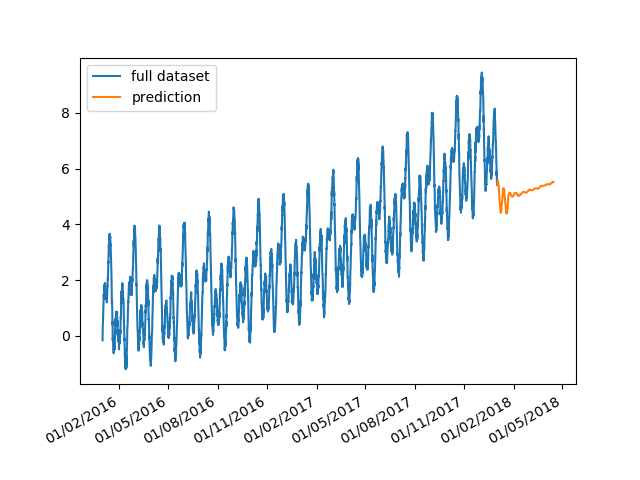
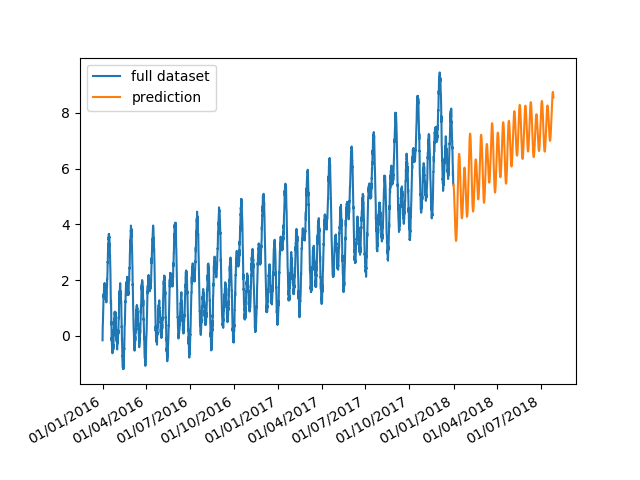
Document params & fix typo

Changed region(s): [[0.1562, 0.1562, 0.875, 0.7812], [0.0312, 0.8125, 0.5, 0.9375], [0.5, 0.8125, 0.875, 0.9375]]

diff --git a/main.py b/main.py
@@ -28,12 +28,12 @@ def main(args):
     # Preprocess input and reshapes to 
     # (num_samples, window_size, 1)
     processor = DataProcessor(window_size=args.window_size, 
-                            forcast_size=args.forcast,
+                            forecast_size=args.forecast,
                             shift=args.shift)
     train_X, train_y, test_X, test_y, raw_series = processor.preprocess(df)
 
     # train or load model
-    lstm = LSTMModel(args.window_size, args.forcast)
+    lstm = LSTMModel(args.window_size, args.forecast)
     print(lstm.model.summary())
     if not args.eval_only:
         lstm.fit(train_X, train_y, epochs=args.epochs)
@@ -44,11 +44,11 @@ def main(args):
     # evaluation and plots
     preds = lstm.predict(test_X[-1].reshape(1,-1, 1))
     preds = processor.postprocess(preds)
-    plot_test_datapoint(test_X[-1], test_y[-1], preds[0], args.forcast)
+    plot_test_datapoint(test_X[-1], test_y[-1], preds[0], args.forecast)
 
     preds_moving = moving_test_window_preds(lstm, test_X[0,:], 
                                             n_future_preds=1000,
-                                            step=args.forcast)
+                                            step=args.forecast)
     preds_moving = np.array(preds_moving).reshape(-1,1)
     preds_moving = processor.postprocess(preds_moving)
 
@@ -60,13 +60,13 @@ if __name__ == "__main__":
                         help='Path to csv dataset to use')
     parser.add_argument('-m','--model-path', type=str, default='./model.h5',
                         help='Path for saving/loading trained model')
-    parser.add_argument('-w','--window-size', type=int, default=50,
+    parser.add_argument('-w','--window-size', type=int, default=600,
                         help='Length of input sequence to predict next datapoint')
-    parser.add_argument('-f','--forcast', type=int, default=5,
+    parser.add_argument('-f','--forecast', type=int, default=200,
                         help='Length of predicted sequence')
     parser.add_argument('--shift', type=int, default=1,
                         help='By how many steps a training/test sequence is shifted to its previous')
-    parser.add_argument('--epochs', type=int, default=10,
+    parser.add_argument('--epochs', type=int, default=20,
                         help='Number of epochs for training')
     parser.add_argument('--eval-only', action='store_true',
                         help='If set model will be loaded from path instead of trained')

diff --git a/data_processor.py b/data_processor.py
@@ -3,9 +3,9 @@ import pandas as pd
 from sklearn.preprocessing import MinMaxScaler
 
 class DataProcessor:
-    def __init__(self, window_size, forcast_size=1, shift=1,split_ratio=0.8):
+    def __init__(self, window_size, forecast_size=1, shift=1,split_ratio=0.8):
         self.window_size = window_size
-        self.forcast_size = forcast_size
+        self.forecast_size = forecast_size
         self.shift = shift
         self.split_ratio = split_ratio
         self.scaler = MinMaxScaler(feature_range=(-1,1))
@@ -24,7 +24,7 @@ class DataProcessor:
 
         # create windows
         series_s = series.copy()
-        for i in range(self.window_size + self.forcast_size - 1):
+        for i in range(self.window_size + self.forecast_size - 1):
             series = pd.concat([series, series_s.shift(-(i+self.shift))], axis=1)
         series.dropna(axis=0, inplace=True)
 
@@ -34,10 +34,10 @@ class DataProcessor:
         train = series.iloc[:nsplit, :]
         test = series.iloc[nsplit:, :]
 
-        train_X = train.iloc[:,:-self.forcast_size].values
-        train_y = train.iloc[:,-self.forcast_size:].values
-        test_X = test.iloc[:,:-self.forcast_size].values
-        test_y = test.iloc[:,-self.forcast_size:].values
+        train_X = train.iloc[:,:-self.forecast_size].values
+        train_y = train.iloc[:,-self.forecast_size:].values
+        test_X = test.iloc[:,:-self.forecast_size].values
+        test_y = test.iloc[:,-self.forecast_size:].values
 
         train_X = train_X.reshape(train_X.shape[0],train_X.shape[1],1)
         test_X = test_X.reshape(test_X.shape[0],test_X.shape[1],1)

diff --git a/model.py b/model.py
@@ -5,7 +5,7 @@ from keras.layers import LSTM, Dropout, Dense, Activation
 from keras.models import load_model, save_model
 
 class LSTMModel():
-    def __init__(self, window_size, forcast_size):
+    def __init__(self, window_size, forecast_size):
         self.model = Sequential()
         self.model.add(LSTM(input_shape=(window_size,1), 
                             output_dim=window_size, 
@@ -13,7 +13,7 @@ class LSTMModel():
         self.model.add(Dropout(0.5))
         self.model.add(LSTM(256))
         self.model.add(Dropout(0.5))
-        self.model.add(Dense(forcast_size))
+        self.model.add(Dense(forecast_size))
         self.model.add(Activation("linear"))
         
         self.model.compile(loss='mse', optimizer='adam')

diff --git a/plotting.py b/plotting.py
@@ -9,10 +9,10 @@ def plot_time_data(x, y, label=''):
     plt.plot(x,y,label=label)
     plt.gcf().autofmt_xdate()
 
-def plot_test_datapoint(test_x, test_y, pred, forcast):
+def plot_test_datapoint(test_x, test_y, pred, forecast):
     plt.plot(test_x, label='input')
     off = len(test_x)
-    xs = list(range(off, off + forcast))
+    xs = list(range(off, off + forecast))
     plt.plot(xs, test_y, label='label')
     plt.plot(xs, pred, label='prediction')
 

diff --git a/README.md b/README.md
@@ -6,6 +6,8 @@ The goal of the project is to predict the next 6 month of a time series. The res
 
 ![result plot](plot_moving.png)
 
+The results where obtained with window size `600`, forecast `200` and `20` epochs of training on the `timeseries_5h.csv` data set.
+
 ## Dependencies
 
 The project is using Python 3.7 and Anaconda. To install the Anaconda environment use
